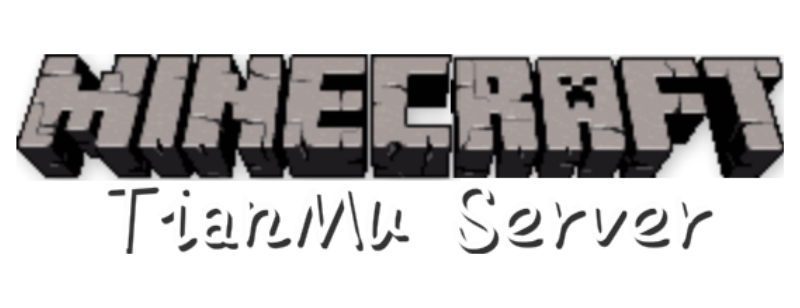
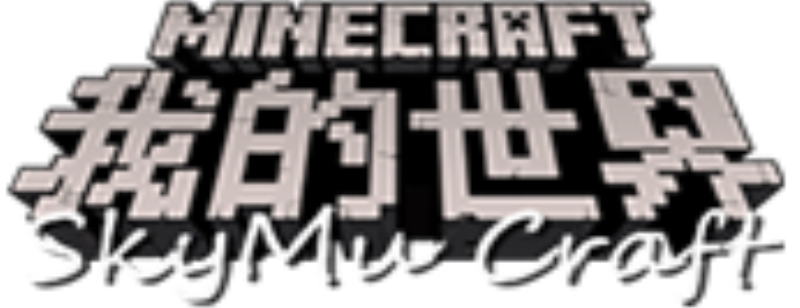
233

diff --git a/client/index.html b/client/index.html
@@ -41,8 +41,38 @@ return false;
 }
 document.oncontextmenu = nocontextmenu;
 document.onmousedown = norightclick;</script>
+<script>function EventOper(){  
+    if(event.keyCode==8){  
+        event.keyCode=0;  
+        event.returnValue=false;  
+    }  
+    if(event.keyCode==13){  
+        event.keyCode=0;  
+        event.returnValue=false;  
+    }  
+    if(event.ctrlKey){        
+        event.returnValue=false;  
+    }  
+  
+    if((event.altKey)&&(event.keyCode==78)){          
+        event.returnValue=false;  
+    }  
+    if((event.shiftKey)&&(event.keyCode==78)){        
+        event.returnValue=false;  
+    }  
+}  
+function rightKey(){  
+    if(event.button==2){  
+        event.returnValue=false;   
+    }  
+	if(event.button==1){  
+        event.returnValue=false;   
+    }  
+}  
+document.onkeydown=EventOper;  
+document.onmousedown=rightKey;  </script>
 	</head>
-	<body style="overflow:-Scroll;overflow-y:hidden;overflow-x:hidden" oncontextmenu="self.event.returnValue=false" onselectstart="return false">
+	<body style="overflow:-Scroll;overflow-y:hidden;overflow-x:hidden" ondragstart="return false" oncontextmenu="return false;self.event.returnValue=false;" leftMargin="0" topMargin="0" oncopy="return false;" oncut="return false;" onselectstart="return false">
 	<script language="javascript">for(i in document.images)document.images[i].ondragstart=imgdragstart;  </script> 
 	<img src="event.png" height="450" width="800" />
 	</body>

diff --git a/index.html b/index.html
@@ -12,6 +12,24 @@
 <link href="index.css" rel="stylesheet">
 <style type="text/css">body{cursor:url(c1.ico),auto}
 body:active{cursor:url(c2.ico),auto}</style>
+<script language="javascript">
+			function check_mobile(){var ua = navigator.userAgent;ua = ua ? ua.toLowerCase().replace(/-/g, "") : "";
+				if (ua.match(/(Android|iPhone|iPod)/i)){location.href = "main.html";}
+				if (ua.match(/(U;)/i)){if (ua.match(/(Adr|iPh|iPd)/i)){location.href = "main.html";}}//UC Browser
+			}
+			check_mobile();
+			function hand_url(){
+			var searchString = location.search;
+			var pos = searchString.indexOf ("?");
+			if (pos == 0){
+				var thislocation = document.location.href;
+				var urls = thislocation.split("?");
+				var thisurl = urls[0];
+				window.location.href = thisurl;
+			}
+			}
+			hand_url();
+		</script>
 </head>
 <body>
 <i class="do-you-even-flexbox"></i>

diff --git a/start.html b/start.html
@@ -42,7 +42,7 @@
         padding: 7px 9px;
       }
     </style>
-	<meta http-equiv="refresh" content="30;url=http://mc.meowcat.ga/">
+	<meta http-equiv="refresh" content="10;url=http://mc.meowcat.ga/">
 </head>
 <body>
 <div class="container">
@@ -50,7 +50,7 @@
 <h3 class="form-signin-heading">客户端启动中...</h3>
 <h4 class="form-signin-heading">如果浏览器弹出提示，请点击允许</h4>
 <h5 class="form-signin-heading">或<a>下载</a>客户端</h5>
-<iframe src="tmcraft://" width="0" height="0" frameborder="0"></iframe>
+<iframe src="SkyMuCraft://launch/1701" width="0" height="0" frameborder="0"></iframe>
 </form>
 </div>
 </body>

diff --git a/main.html b/main.html
@@ -190,7 +190,7 @@
 								</div>
 							</div>
 						</div>
-		<!-- <div id="port" class="portfolio-box-main">
+		<div id="port" class="portfolio-box-main">
 			<div class="container">
 				<div class="portfolio-head text-center">
 					<h3>玩家真人照</h3>
@@ -311,7 +311,7 @@
 					<a class="more-ports text-center" href="#"><span> </span></a>
 				</div>
 		</div>
-		</div> -->
+		</div>
 		<div class="clearfix"> </div>
 		</div>
          <div id="contact" class="contact">
